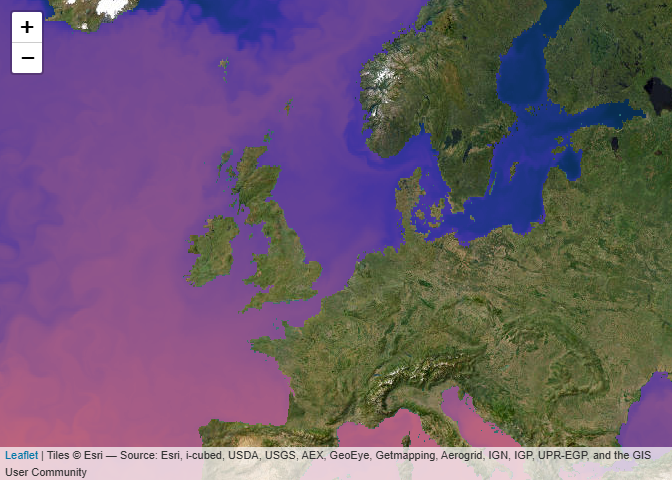
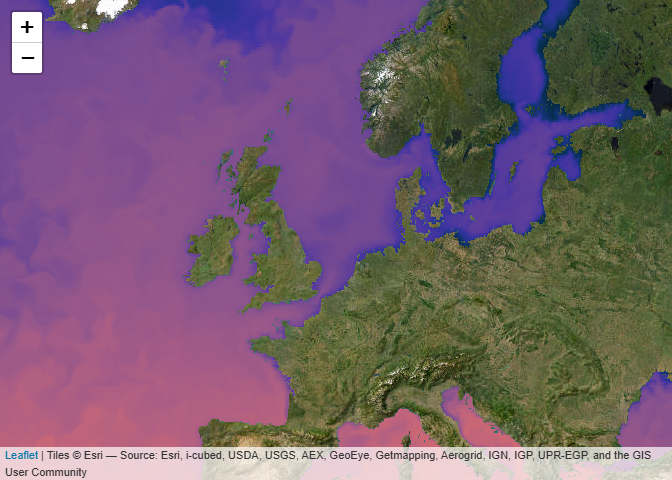
Work in progress (#169)
* Updated NEWS

* Some small fixes and improved test coverage

* Rerendered README

* Version bump for CRAN release

* Fixed test

* Added rhub workflow

* Fix for https://github.com/pepijn-devries/CopernicusMarine/issues/127

* Added proxy vignette

* Try to fix failing test-coverage workflow

* Some fixes to vignette and cross references

* Added login for functions that download from s3 storage

* Updated NEWS file

* Improved test coverage

* Version bump for CRAN release. And added html and R files in vignettes dir to .buildignore

* Don't make 'translate' vignette self-contained. Otherwise, it will embed the >2Mb gif animation

* Don't run proxy-vignette chunks if password is not set...

* And only if the HDF5 driver is present

* added namespace

* forgot some eval args

* Explicitly retrieve an pass variable names when reading proxy object when missing

* Added lifecycle badge to `cms_zarr_proxy()`

* Added lifecycle badge to `cms_native_proxy()` as well

* More rigorous checking for required dependencies when accessing online resources

* updated news

* Some final tweaks on BLOSC checks

* Added eval checks to translate.rmd

* Added startup message

* Fix for https://github.com/pepijn-devries/CopernicusMarine/issues/143

* added fix to NEWS

* More informative error message
[…]

diff --git a/README.md b/README.md
@@ -69,6 +69,12 @@ If you want to explore the available products and their layers, you
 should consult `vignette("product-info")`. Please check the manual for
 complete documentation of the package.
 
+For an excellent tutorial showing how to combine multiple spatial
+datasets from different sources (amongst which is CopernicusMarine),
+check out: [EMODnet Biology Geospatial R Tutorials (Tutorial
+4)](https://r-rse.github.io/emodnet-bio-r-geo-tutorials/tutorials/tutorial-04.html)
+by [Anna Krystalli](https://github.com/annakrystalli)
+
 <h3 id="sec-subset">
 
 Downloading a subset
@@ -172,7 +178,9 @@ leaflet::leaflet() |>
   addCmsWMTSTiles(
     product     = "GLOBAL_ANALYSISFORECAST_PHY_001_024",
     layer       = "cmems_mod_glo_phy-thetao_anfc_0.083deg_P1D-m",
-    variable    = "thetao"
+    variable    = "thetao",
+    time        = "2026-01-01 UTC",
+    elevation   = -1.5413750410079956
   )
 ```
 

diff --git a/NEWS.md b/NEWS.md
@@ -1,6 +1,10 @@
-CopernicusMarine v0.4.5.0004
+CopernicusMarine v0.4.6
 -------------
 
+ * Added `time` and `depth` arguments to `addCmsWMTSTiles()`
+ * Fixed some issues in `addCmsWMTSTiles()`
+ * Added `vignette("glossary")` and `cms_glossary()`
+ * Updated README.md
  * Added more safeguards to vignette to pass CRAN checks
  * Added more tests
  * Fixed [issue 164](https://github.com/pepijn-devries/CopernicusMarine/issues/164)
